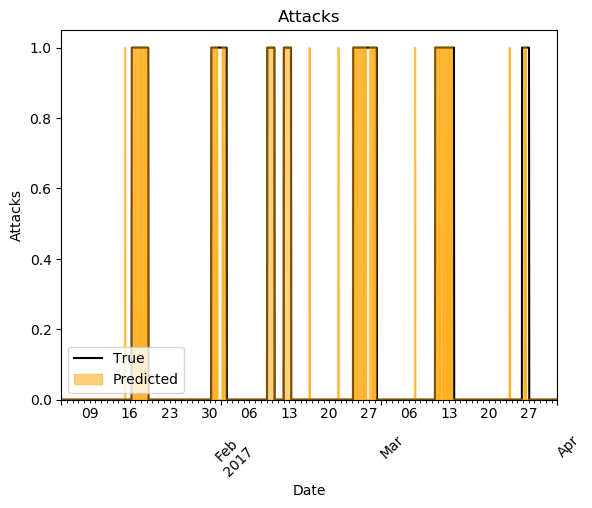
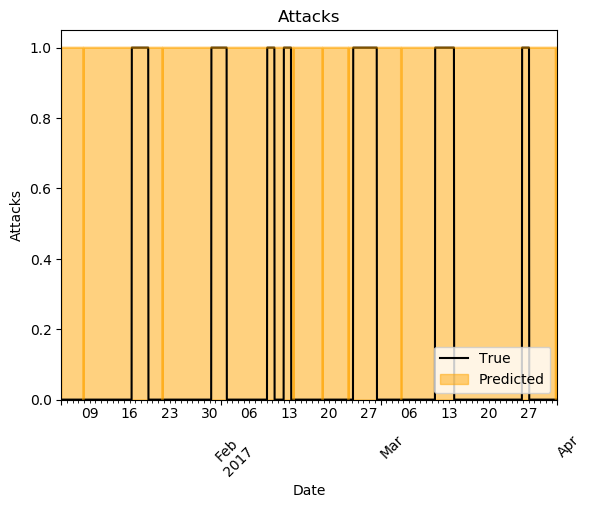
Updated PCA

diff --git a/anomaly_detection/pca/tune_pca.py b/anomaly_detection/pca/tune_pca.py
@@ -28,7 +28,7 @@ def plot_cumulative_explained_var(dataset):
     # plt.show()
 
 
-def get_num_of_components(dataset, explained_var):
+def get_num_of_components(dataset, conf):
     """
     Finds the minimum number of principal components that provide the given explained variance
     :param dataset: Dataset to apply PCA
@@ -43,7 +43,7 @@ def get_num_of_components(dataset, explained_var):
     # compute cumulative explained variance as the components are increasing
     total_var = pca.explained_variance_ratio_.cumsum()
     # find minimum number of principal components that provide the given explained variance
-    n_components = [i + 1 for i, var in enumerate(total_var) if var > explained_var][0]
+    n_components = [i + 1 for i, var in enumerate(total_var) if var > conf][0]
     return n_components
 
 

diff --git a/anomaly_detection/pca/pca_detection.py b/anomaly_detection/pca/pca_detection.py
@@ -53,8 +53,8 @@ def pca_detect():
 
     # we use training dataset 2 to find the optimal classification threshold
     pca = PCA(n_components=pca_train_data2.shape[1])
-    pca.fit(pca_train_data2)
-    components_dataset2 = get_num_of_components(pca_train_data2, 0.95)
+    pca.fit(pca_train_data1_without_outliers)
+    components_dataset2 = get_num_of_components(pca_train_data1_without_outliers, 0.95)
     threshold = get_threshold(pca, components_dataset2, conf=0.95)
 
     # another way to get a threshold
